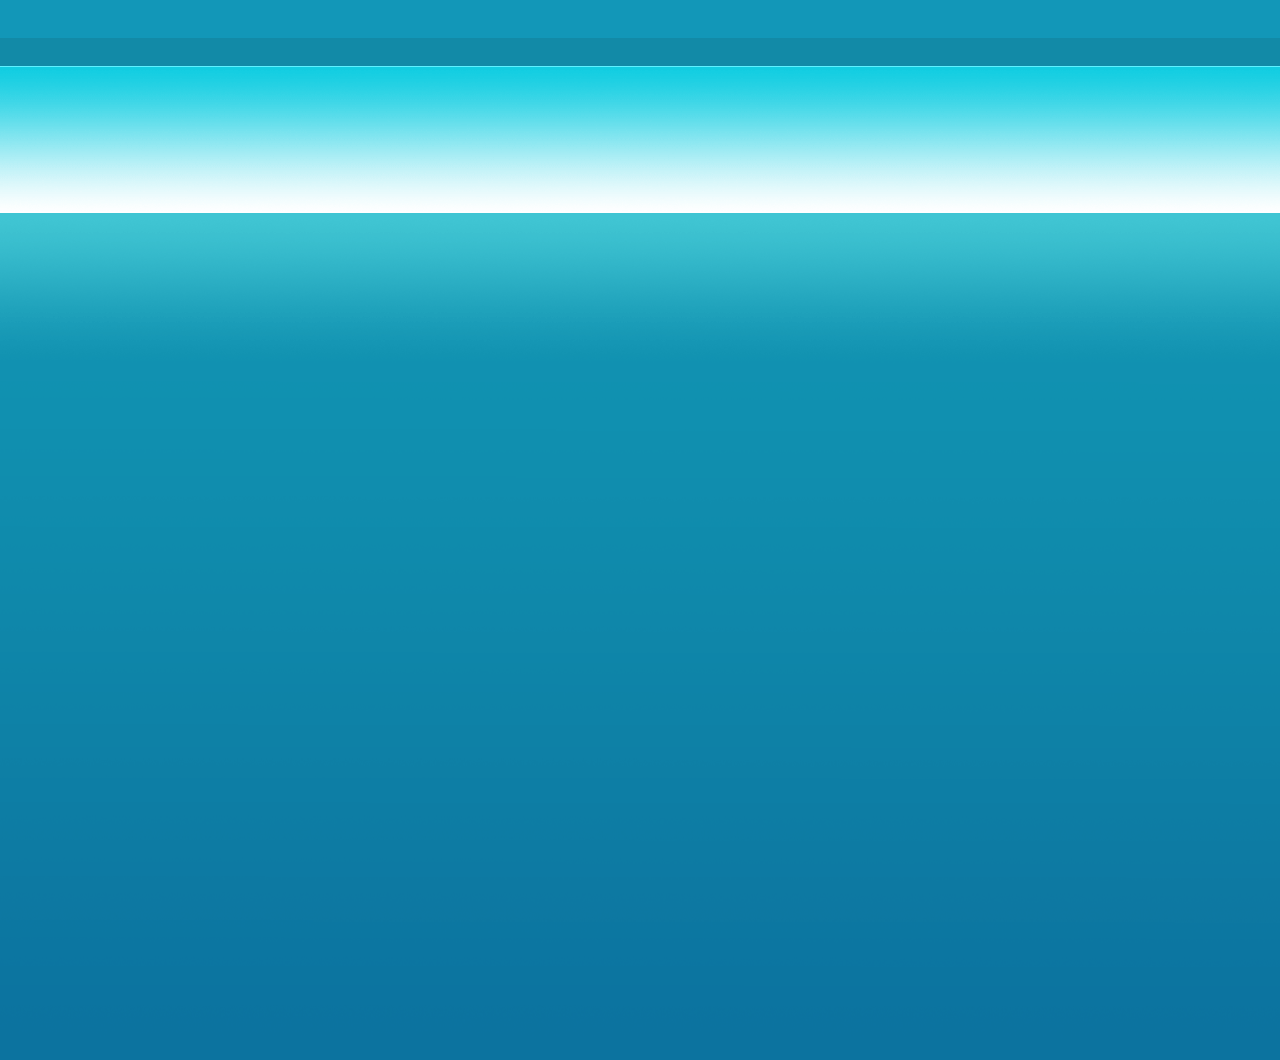
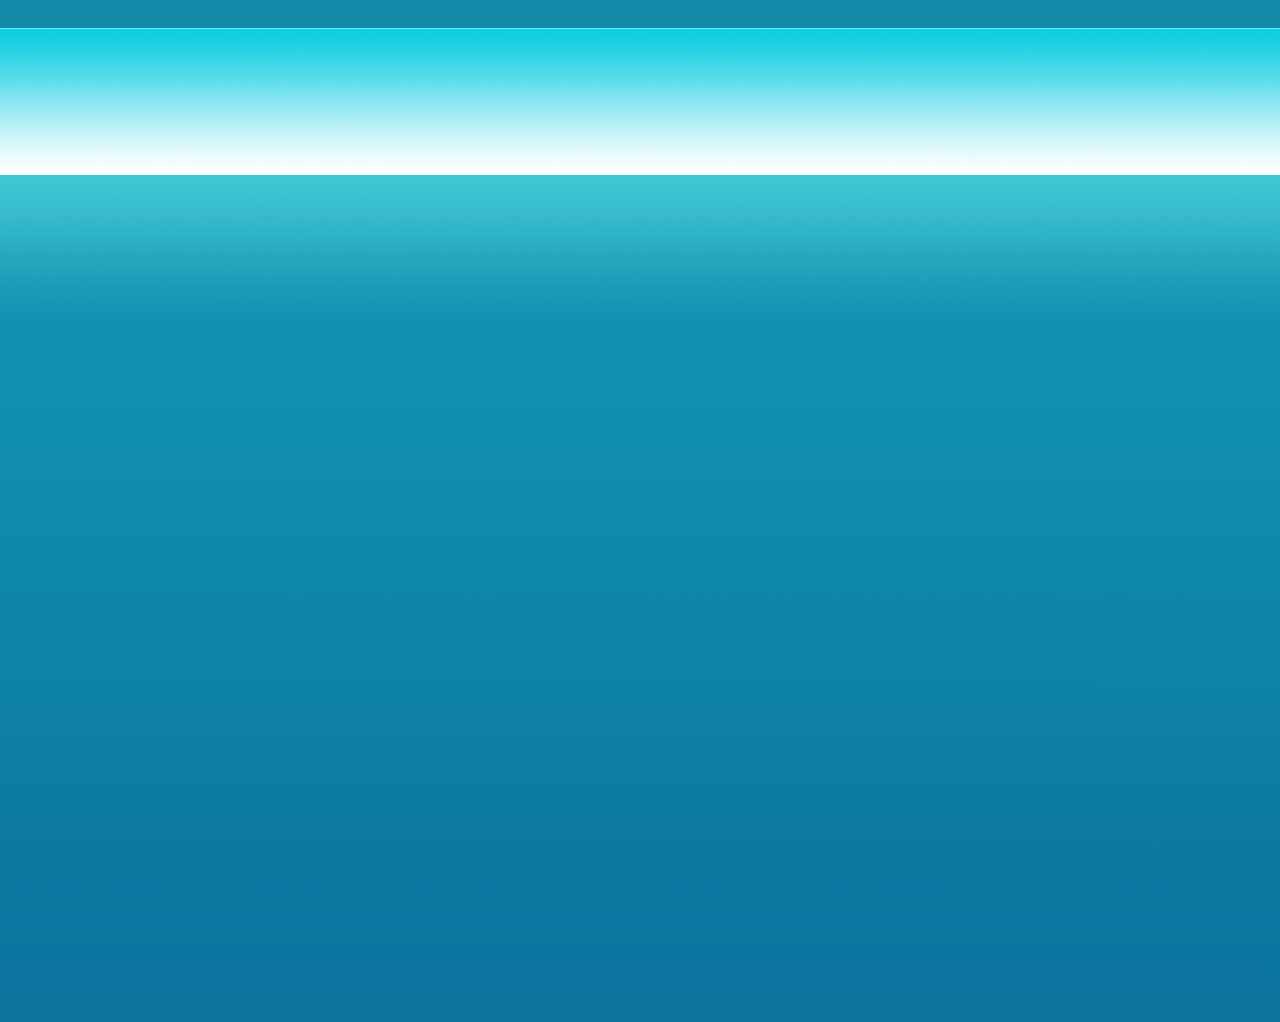
add header

Changed region(s): [[0.0, 0.0303, 1.0, 0.2123]]

diff --git a/index.html b/index.html
@@ -1,0 +1,37 @@
+<!DOCTYPE html>
+<html lang="en">
+<head>
+    <meta charset="UTF-8">
+    <title>work_html4</title>
+    <link rel="stylesheet" href="css/style.css">
+</head>
+<body>
+    <div class="wrapper">
+        <div>
+            <header>
+                <div class="contacts">
+                    <ul>
+                        <li class="hed-contacts">Наши контакты:</li>
+                        <li>+9-098-765-4321</li>
+                        <li>+9-012-345-6789</li>
+                        <li><a href="mailto:info@asia-holidays.com">info@asia-holidays.com</a></li>
+                    </ul>
+                </div>
+                <div class="logo">
+                    <img src="img/logo.png" alt="logo">
+                    <div>Путешествия по Азии</div>
+                </div>
+                <nav class="country">
+                    <a href="#"><img src="img/india.png" alt=""> Индия</a>
+                    <a href="#"><img src="img/nepal.png" alt="">Непал</a>
+                    <a href="#"><img src="img/tibet.png" alt="">Тибет</a>
+                    <a href="#"><img src="img/butan.png" alt="">Бутан</a>
+                    <a href="#"><img src="img/sri-lanka.png" alt="">Шри Ланка</a>
+                    <a href="#"><img src="img/maldiv.png" alt="">Мальдивы</a>
+                </nav>
+                <img class="photo" src="img/photo.png" alt="">
+            </header>
+        </div>
+    </div>
+</body>
+</html>

diff --git a/css/style.css b/css/style.css
@@ -1,0 +1,67 @@
+* {
+    margin: 0;
+    padding: 0;
+}
+body {
+    background-image: url(../img/fone.png);
+    background-color: #3ec3d1;
+    font-family: Tahoma, sans-serif;
+}
+
+.wrapper {
+    width: 1000px;
+    margin: 0 auto;
+    background-color: #ffffff
+}
+
+header {
+    position: relative;
+}
+
+.contacts ul {
+    color: #128aa7;
+    font-size: 14px;
+    list-style: none;
+    text-decoration: none;
+}
+
+.contacts {
+    margin: 10px 35px;
+    float: right;
+}
+
+.hed-contacts {
+    font-weight: 700;
+}
+
+.logo {
+    height: 164px;
+    padding: 11px 0 0 30px;
+}
+.logo div {
+    color: #128aa7;
+    font-size: 13px;
+    position: absolute;
+    top: 110px;
+    left: 90px;
+}
+
+.country {
+    clear: both;
+    position: absolute;
+    top: 110px;
+    right: 30px;
+}
+
+.country a {
+    color: #128aa7;
+    width: 60px;
+    text-align: center;
+    font-size: 11px;
+    display: inline-block;
+}
+
+.photo {
+    border-top: 1px solid #128aa7;
+    border-bottom: 1px solid #128aa7;
+}
